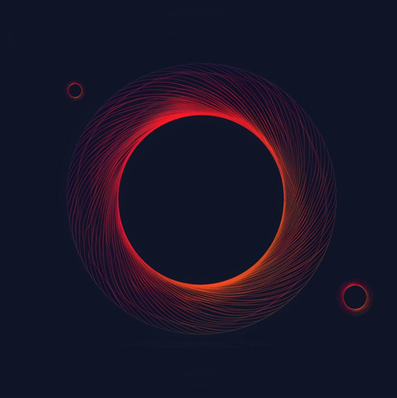
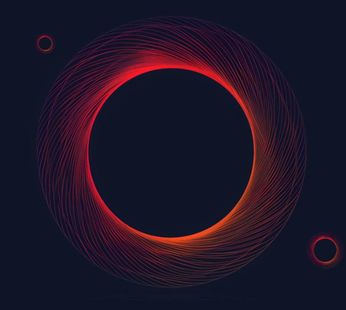
style: create responsiveness for Hero component

Changed region(s): [[0.1156, 0.0581, 0.896, 0.929], [0.8382, 0.6968, 0.9827, 0.871], [0.0867, 0.1161, 0.1734, 0.1742]]

diff --git a/src/components/Main/components/Hero/styles/HeroResponsiveness.css b/src/components/Main/components/Hero/styles/HeroResponsiveness.css
@@ -1,0 +1,224 @@
+@media screen and (max-width: 1400px) {
+    .hero {
+        width: 1000px;
+    }
+}
+
+@media screen and (max-width: 1150px) {
+    .hero {
+        height: 550px;
+        width: 750px;
+    }
+
+    .hero figure {
+        margin-top: 2em;
+        width: 750px;
+    }
+
+    .hero figure img {
+        width: 500px;
+    }
+
+    .contentBlock header h1 {
+        font-size: 3em;
+    }
+
+    .contentBlock p {
+        font-size: 1em;
+        width: 400px;
+    }
+
+    .contentBlock button {
+        width: 215px;
+        font-size: 1.25em;
+        margin-top: .75em;
+        transition: none;
+    }
+}
+
+@media screen and (max-width: 900px) {
+    .hero {
+        height: 425px;
+        width: 650px;
+
+        padding-left: 0em;
+    }
+
+    .hero figure {
+        width: 400px;
+    }
+
+    .hero figure img {
+        width: 400px;
+    }
+
+    .contentBlock header h1 {
+        font-size: 2.5em;
+    }
+
+    .contentBlock p {
+        font-size: .95em;
+        width: 350px;
+    }
+
+    .contentBlock button {
+        width: 190px;
+        font-size: 1.1em;
+        margin-top: .5em;
+    }
+}
+
+@media screen and (max-width: 800px) {
+    .hero {
+        height: 425px;
+        width: 475px;
+    }
+
+    .hero figure {
+        width: 300px;
+        margin: 0em;
+    }
+
+    .hero figure img {
+        width: 300px;
+    }
+
+    .contentBlock header h1 {
+        font-size: 2em;
+    }
+
+    .contentBlock p {
+        font-size: .85em;
+        width: 300px;
+    }
+
+    .contentBlock button {
+        width: 170px;
+        font-size: 1em;
+        margin-top: 0em;
+    }
+}
+
+@media screen and (max-width: 600px) {
+    .hero {
+        height: 300px;
+        width: 350px;
+    }
+
+    .hero figure {
+        width: 200px;
+    }
+
+    .hero figure img {
+        width: 200px;
+    }
+
+    .contentBlock {
+        gap: 1.5em;
+    }
+
+    .contentBlock header h1 {
+        font-size: 1.5em;
+    }
+
+    .contentBlock p {
+        font-size: .7em;
+        width: 220px;
+    }
+
+    .contentBlock button {
+        width: 140px;
+        font-size: .8em;
+    }
+}
+
+@media screen and (max-width: 450px) {
+    .hero {
+        height: 275px;
+        width: 250px;
+    }
+
+    .hero figure {
+        width: 150px;
+    }
+
+    .hero figure img {
+        width: 150px;
+    }
+
+    .contentBlock {
+        gap: 1em;
+    }
+
+    .contentBlock header h1 {
+        font-size: 1.2em;
+    }
+
+    .contentBlock p {
+        font-size: .6em;
+        width: 150px;
+    }
+
+    .contentBlock button {
+        width: 120px;
+        font-size: .7em;
+    }
+}
+
+@media screen and (max-width: 350px) {
+    .hero {
+        height: 235px;
+        width: 200px;
+    }
+
+    .hero figure {
+        width: 120px;
+    }
+
+    .hero figure img {
+        width: 120px;
+    }
+
+    .contentBlock header h1 {
+        font-size: 1em;
+    }
+
+    .contentBlock p {
+        font-size: .5em;
+        width: 120px;
+    }
+
+    .contentBlock button {
+        width: 100px;
+        font-size: .6em;
+    }
+}
+
+@media screen and (max-width: 250px) {
+    .hero {
+        height: 220px;
+        width: 175px;
+    }
+
+    .hero figure {
+        width: 120px;
+    }
+
+    .hero figure img {
+        width: 120px;
+    }
+
+    .contentBlock header h1 {
+        font-size: 1em;
+    }
+
+    .contentBlock p {
+        font-size: .5em;
+        width: 120px;
+    }
+
+    .contentBlock button {
+        width: 100px;
+        font-size: .6em;
+    }
+}

diff --git a/src/components/Main/components/Hero/components/ContentBlock/components/styles/Button.css b/src/components/Main/components/Hero/components/ContentBlock/components/styles/Button.css
@@ -15,7 +15,8 @@
 
     position: relative;
 
-    transition: all 0.3s ease;
+    transition: box-shadow 0.3s ease, transform 0.3s ease;
+    font-size: 1.45em;
 
     overflow: hidden;
     cursor: pointer;
@@ -55,10 +56,8 @@
 
 .contentBlock button span {
     position: relative;
-
-    transition: all 0.3s ease;
-
     z-index: 3;
+    transition: color 0.3s ease;
 }
 
 .contentBlock button:hover span {

diff --git a/src/components/Main/components/Hero/Hero.jsx b/src/components/Main/components/Hero/Hero.jsx
@@ -2,6 +2,7 @@ import BackgroundImage from './components/BackgroundImage/BackgroundImage.jsx'
 import ContentBlock from './components/ContentBlock/ContentBlock.jsx'
 
 import './styles/Hero.css'
+import './styles/HeroResponsiveness.css'
 
 const Hero = () => {
   return (

diff --git a/src/components/Main/components/Hero/components/ContentBlock/styles/ContentBlock.css b/src/components/Main/components/Hero/components/ContentBlock/styles/ContentBlock.css
@@ -1,12 +1,14 @@
 .contentBlock {
     display: flex;
     flex-direction: column;
-    gap: 1em;
-
-    padding-top: 6em;
+    gap: 2em;
 
     color: white;
 
     position: relative;
     z-index: 2;
+}
+
+.contentBlock p {
+    margin: 0;
 }

diff --git a/src/components/Main/components/Hero/components/BackgroundImage/styles/BackgroundImage.css b/src/components/Main/components/Hero/components/BackgroundImage/styles/BackgroundImage.css
@@ -4,6 +4,8 @@
     align-items: center;
     width: 1250px;
 
+    margin: 0em;
+
     position: absolute;
     top: 50%;
     left: 50%;
@@ -12,5 +14,5 @@
 }
 
 .hero figure img {
-    width: 750px;
+    width: 600px;
 }

diff --git a/src/components/Main/components/Hero/styles/Hero.css b/src/components/Main/components/Hero/styles/Hero.css
@@ -1,7 +1,7 @@
 .hero {
     display: flex;
     justify-content: flex-start;
-    align-items: flex-start;
+    align-items: center;
     background-color: #0F1427;
 
     height: 700px;
